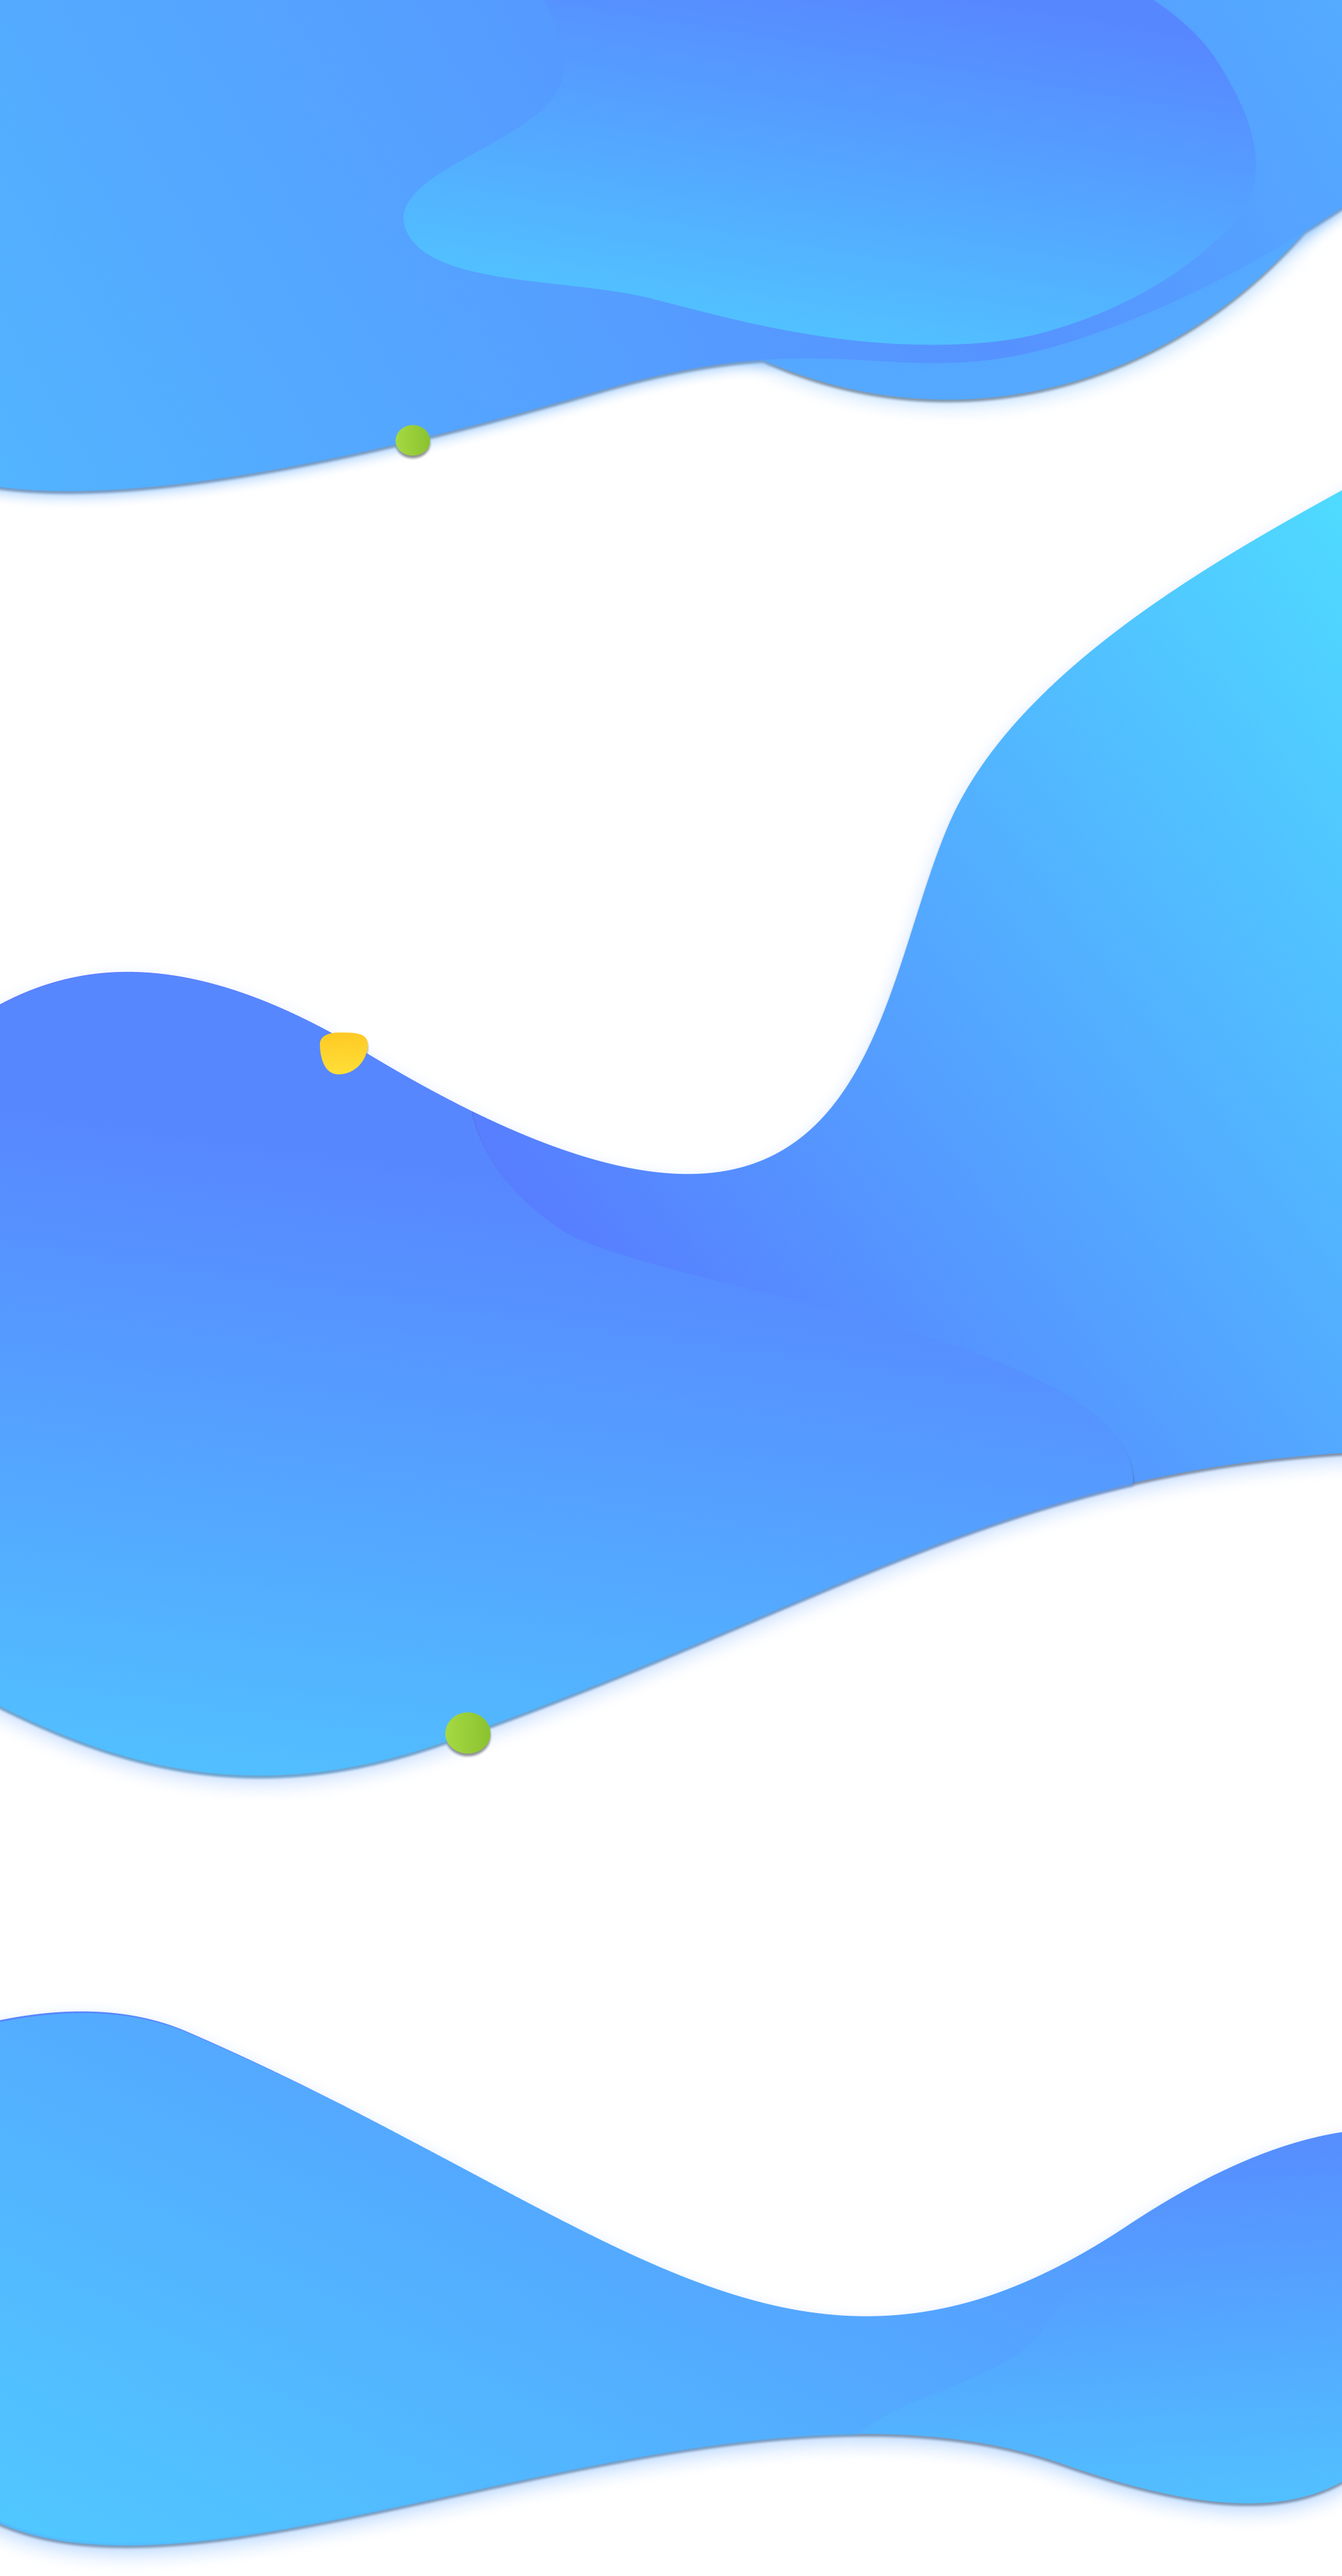
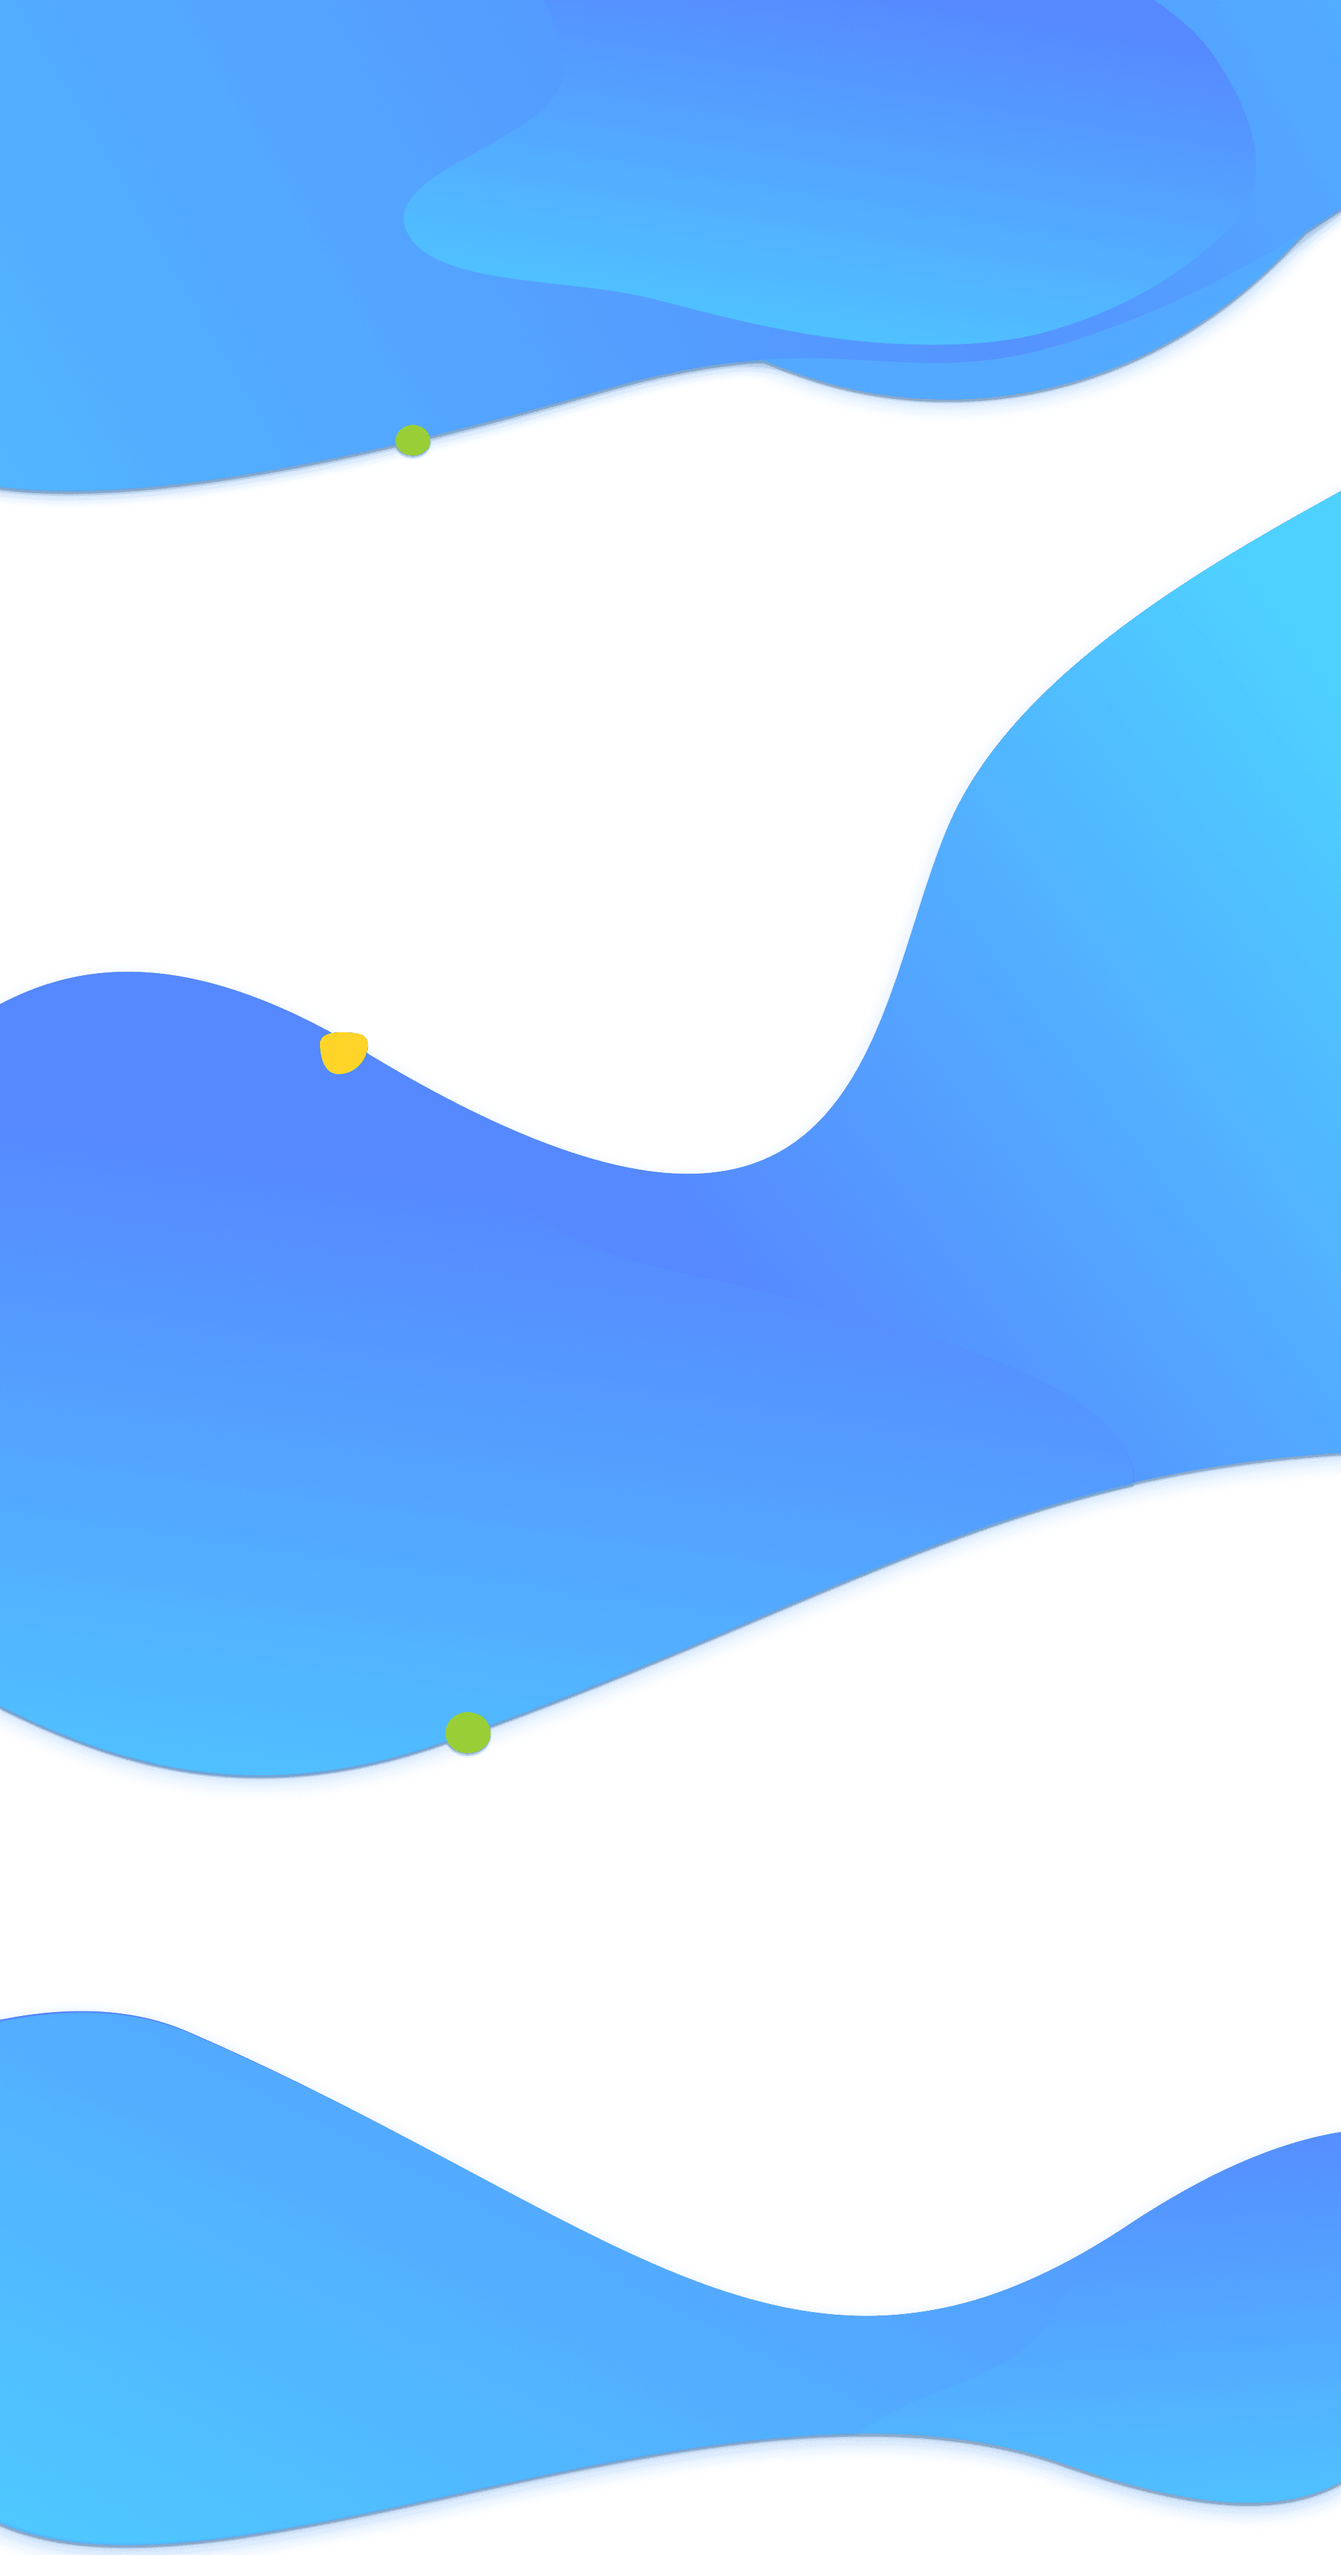
fix position display

diff --git a/css/style.css b/css/style.css
@@ -64,6 +64,7 @@
 
 .page-main {
     /*min-width: 2022px; */
+    min-width: 100%;
     background-color: #F3F6FB;
     background-image: url("../img/background-image.png");
     background-repeat: no-repeat;
@@ -71,7 +72,6 @@
     background-position: top center;
     height: 3880px;
     margin: 0 auto;
-
     width: 100% !important;
     max-width: 100% !important;
 }
@@ -82,7 +82,7 @@
     width: 1140px;
     padding: 0px 15px;
     margin: 0 auto;
-    padding-bottom: 100px;
+    padding-bottom: 300px;
 }
 
 /*Хедер*/
@@ -709,6 +709,7 @@
     background-position: center;
     border-radius: 43px;
     margin: 0 auto;
+    margin-top: 150px;
 
 }
 
